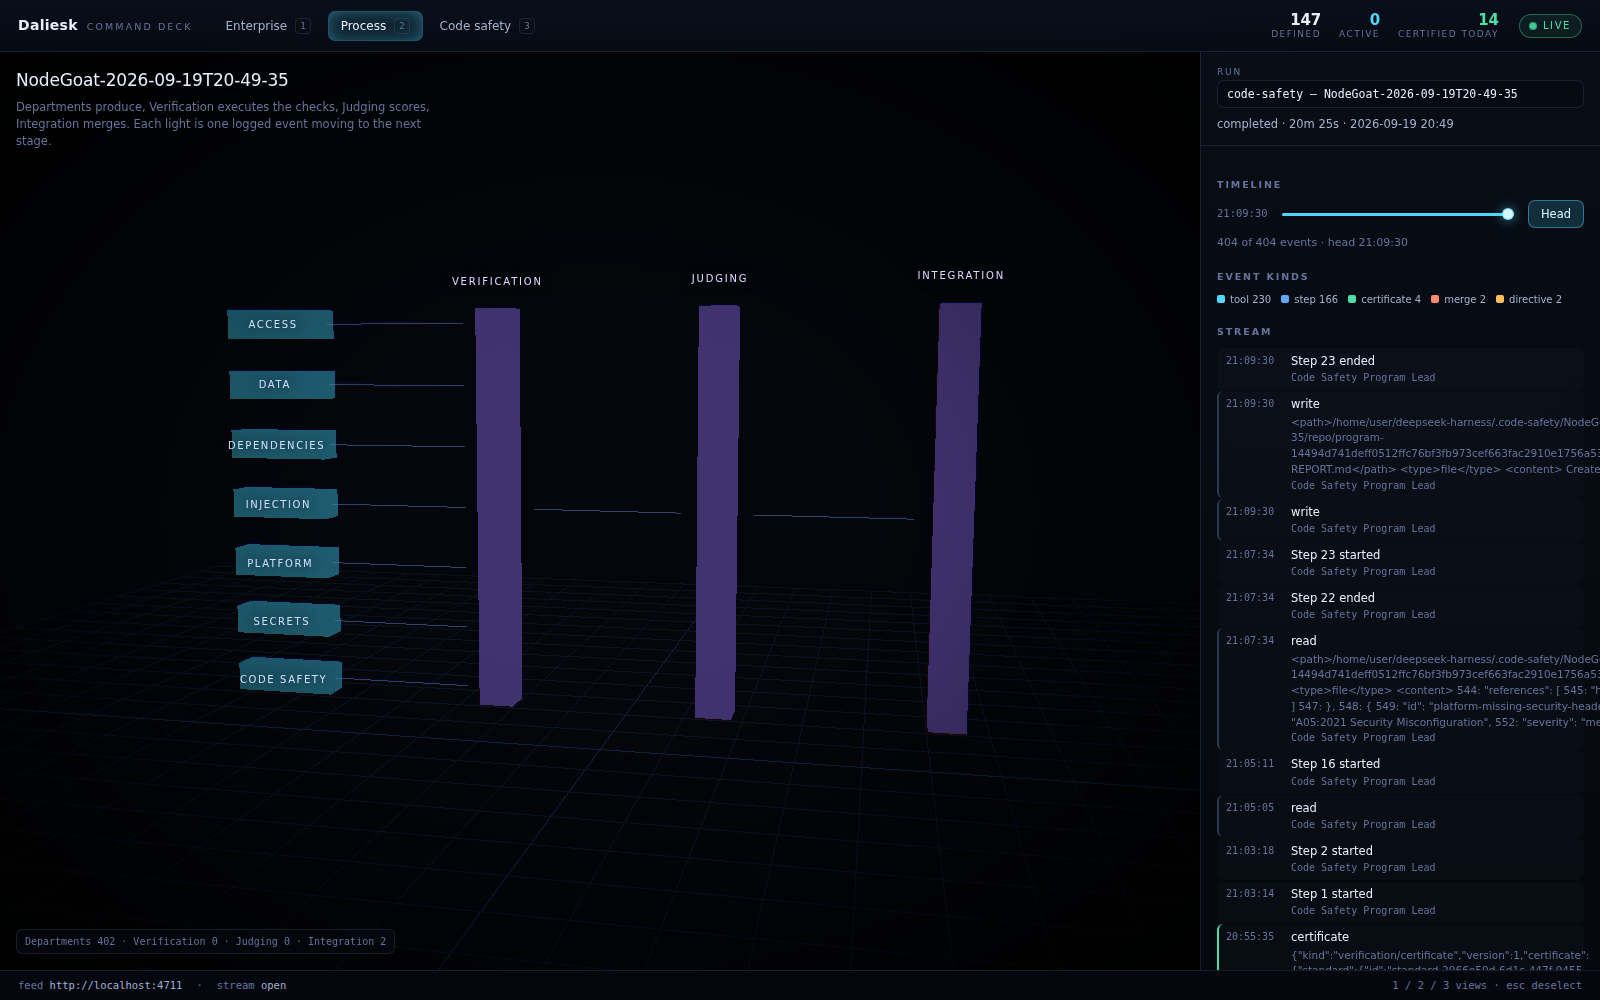
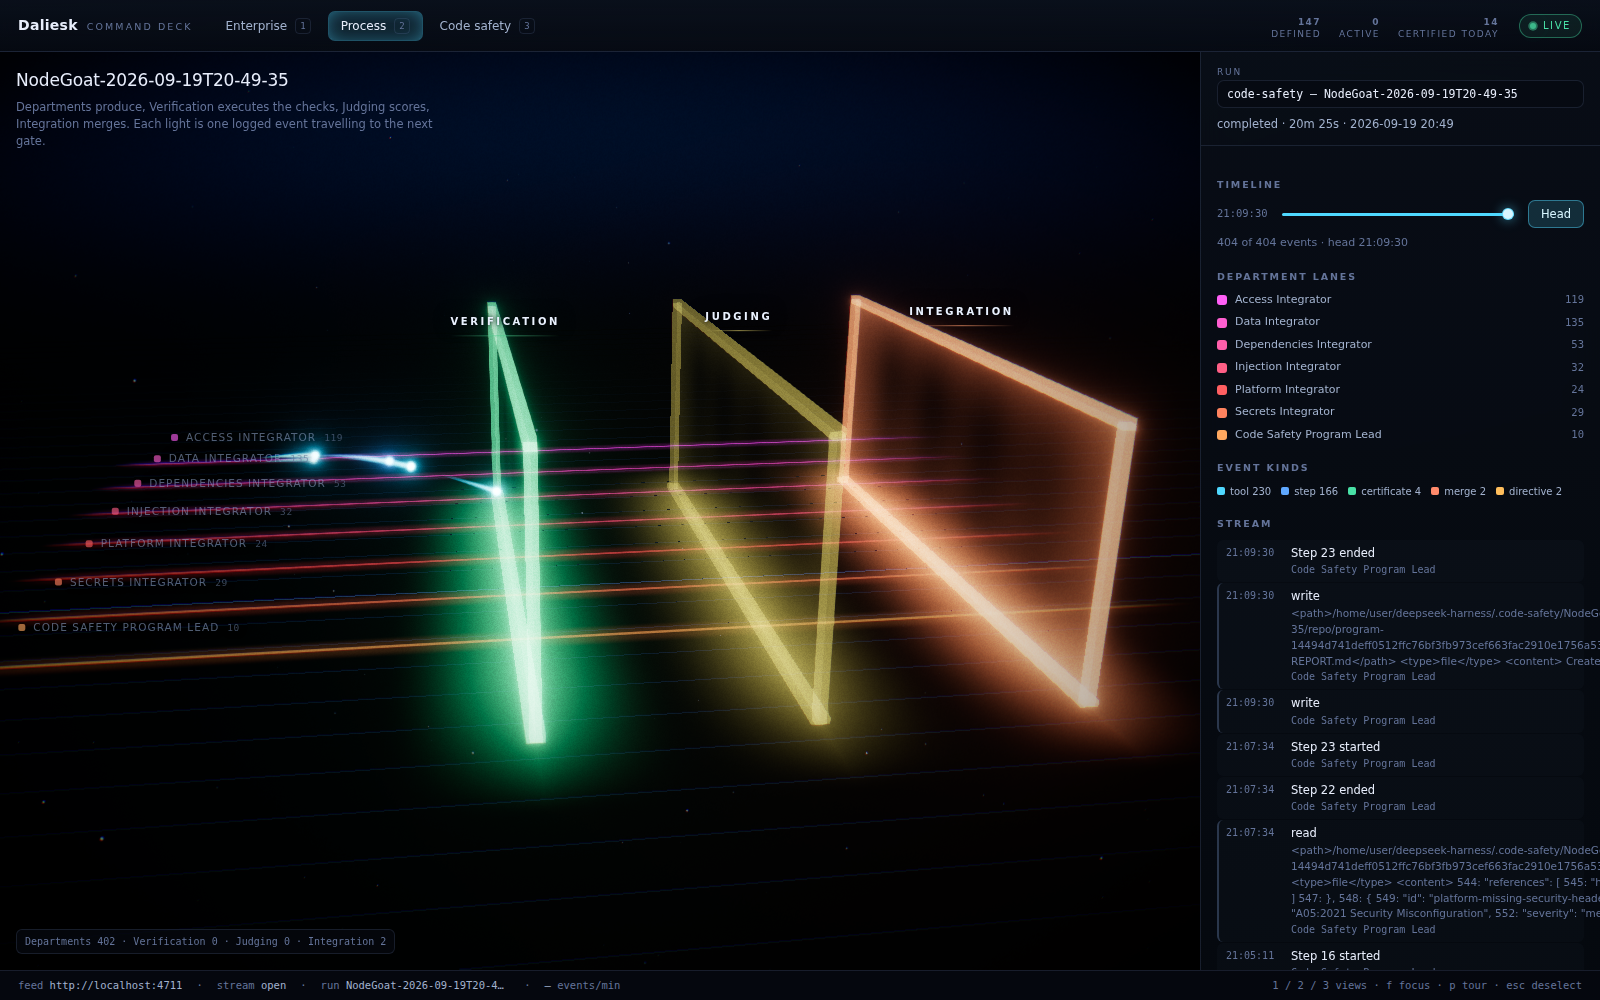
fix(deck): word confidence in the contract, one Esc, one easing curve
Finding.confidence is the review's own word (confirmed, likely, possible)
and a finding carries its references, as the feed and the fixtures already
send them; the card renders the word. The shell's one keyboard handler
clears the selected finding as well as the selected agent on Esc, and the
code city no longer listens for keys itself. The three stages and the
rolling counters share deck/easing.ts; the unused camera helper goes and
the types nothing imports stay module-local, so knip passes. The launcher
runs the deck's own build and start scripts (next reads PORT) instead of a
binary only the deck depends on. Panel copy says beacon where the stage
stands one. README, Agent Note and the three screenshots follow the four
integrated stages.

Claude-Session: https://claude.ai/code/session_01HEXjzxR7CyMizem5kFAB4C

diff --git a/apps/command-deck/components/shell/usePresentation.ts b/apps/command-deck/components/shell/usePresentation.ts
@@ -14,8 +14,9 @@ const TYPING = ['INPUT', 'TEXTAREA', 'SELECT']
 /**
  * The deck's global keyboard, and the timer that drives the tour.
  *
- * `1`, `2` and `3` select a view and `Esc` clears the selection, as before;
- * `F` toggles the full-bleed stage and `P` the tour. Every other key, and any
+ * `1`, `2` and `3` select a view and `Esc` clears the selected agent and the
+ * selected finding, so each stage flies back on the one key whichever view is
+ * up; `F` toggles the full-bleed stage and `P` the tour. Every other key, and any
  * press anywhere on the page, ends a running tour — a tour is what the deck
  * does while nobody is driving, so the first sign of a driver stops it.
  *
@@ -29,6 +30,7 @@ export function usePresentation(): void {
   const setPresentation = useDeck(state => state.setPresentation)
   const togglePresentation = useDeck(state => state.togglePresentation)
   const selectAgent = useDeck(state => state.selectAgent)
+  const selectFinding = useDeck(state => state.selectFinding)
 
   const here = useRef(pathname)
   here.current = pathname
@@ -58,6 +60,7 @@ export function usePresentation(): void {
       leaveTour()
       if (event.key === 'Escape') {
         selectAgent(undefined)
+        selectFinding(undefined)
         return
       }
       const view = VIEWS.find(entry => entry.key === event.key)
@@ -70,7 +73,7 @@ export function usePresentation(): void {
       window.removeEventListener('keydown', onKey)
       window.removeEventListener('pointerdown', leaveTour)
     }
-  }, [router, selectAgent, setPresentation, togglePresentation])
+  }, [router, selectAgent, selectFinding, setPresentation, togglePresentation])
 
   useEffect(() => {
     if (presentation !== 'tour') return

diff --git a/scripts/poc-demo.ts b/scripts/poc-demo.ts
@@ -110,7 +110,7 @@ if (isMain) {
 
   if (options.build || !existsSync(join(deckDir, '.next', 'BUILD_ID'))) {
     console.log(`poc-demo: building the deck against ${feedUrl}`)
-    const code = await run('pnpm', ['--dir', deckDir, 'exec', 'next', 'build'], { NEXT_PUBLIC_FEED_URL: feedUrl })
+    const code = await run('pnpm', ['--dir', deckDir, 'run', 'build'], { NEXT_PUBLIC_FEED_URL: feedUrl })
     if (code !== 0) {
       console.error(`poc-demo: the deck build exited with ${code}`)
       process.exit(code)
@@ -120,6 +120,9 @@ if (isMain) {
   // Each child leads its own process group: the feed and the deck are started
   // through pnpm wrappers, and signalling the group is what reaches the server
   // process behind the wrapper. Ctrl-C therefore arrives here and is forwarded.
+  // The deck's own `build` and `start` scripts are run rather than the `next`
+  // binary, which only the deck workspace depends on; `next start` reads its
+  // port from `PORT`.
   const children: ChildProcess[] = []
   const stopAll = (signal: NodeJS.Signals = 'SIGTERM'): void => {
     for (const child of children) {
@@ -146,7 +149,11 @@ if (isMain) {
   await waitForFeed(feedUrl, FEED_READY_MS)
 
   console.log(`poc-demo: serving the deck on http://localhost:${options.deckPort} (LIVE against ${feedUrl})`)
-  const deck = spawn('pnpm', ['--dir', deckDir, 'exec', 'next', 'start', '-p', String(options.deckPort)], { stdio: 'inherit', detached: true })
+  const deck = spawn('pnpm', ['--dir', deckDir, 'run', 'start'], {
+    env: { ...process.env, PORT: String(options.deckPort) },
+    stdio: 'inherit',
+    detached: true,
+  })
   children.push(deck)
   deck.on('exit', onChildExit('the deck'))
 }

diff --git a/apps/command-deck/components/safety/SafetyStage.tsx b/apps/command-deck/components/safety/SafetyStage.tsx
@@ -23,6 +23,7 @@ import {
   type Mesh,
 } from 'three'
 import type { Finding, SafetyDepartment, SafetyTarget } from '@/deck/contract'
+import { easeInOutCubic } from '@/deck/easing'
 import { layoutCity, type CityBlock, type CityLayout } from '@/deck/layout-city'
 import { usePrefersReducedMotion } from '@/deck/motion'
 import { languageColor, SEVERITY_COLOR } from '@/deck/palette'
@@ -150,15 +151,6 @@ function focusView(entry: PlacedFinding): { position: Vector3; target: Vector3 }
     position: target.clone().add(new Vector3(0.58, 0.55, 1.05).normalize().multiplyScalar(distance)),
     target,
   }
-}
-
-/**
- * Cubic ease-in-out, so a flight leaves and arrives at rest.
- * @param t - Progress in `[0, 1]`.
- * @returns The eased progress.
- */
-function easeInOutCubic(t: number): number {
-  return t < 0.5 ? 4 * t * t * t : 1 - ((((-2 * t) + 2) ** 3) / 2)
 }
 
 const SCRATCH = new Matrix4()
@@ -1021,17 +1013,6 @@ export function SafetyStage({
     () => placed.find(entry => entry.finding.id === selectedFindingId),
     [placed, selectedFindingId],
   )
-
-  useEffect(() => {
-    if (selectedFindingId === undefined) return
-    const onKey = (event: KeyboardEvent): void => {
-      const element = event.target
-      if (element instanceof HTMLElement && ['INPUT', 'TEXTAREA', 'SELECT'].includes(element.tagName)) return
-      if (event.key === 'Escape') onSelectFinding(undefined)
-    }
-    window.addEventListener('keydown', onKey)
-    return () => window.removeEventListener('keydown', onKey)
-  }, [selectedFindingId, onSelectFinding])
 
   return (
     <Stage

diff --git a/apps/command-deck/components/safety/FindingCard.tsx b/apps/command-deck/components/safety/FindingCard.tsx
@@ -5,21 +5,7 @@ import type { Finding, SafetyCertificate } from '@/deck/contract'
 import { departmentOf } from '@/deck/departments'
 
 /**
- * A finding's confidence as text.
- *
- * The contract types the field as a number, and the fixtures carry one, but a
- * live feed also reports it as a word the departments wrote — `confirmed`,
- * `likely` — so the card renders whichever arrives rather than calling a
- * number method on a string.
- * @param confidence - The confidence the feed reported.
- * @returns The text to show after the location.
- */
-function confidenceText(confidence: number | string): string {
-  return typeof confidence === 'number' ? confidence.toFixed(2) : confidence
-}
-
-/**
- * The selected finding, over the city, next to the marker it belongs to.
+ * The selected finding, over the city, beside the beacon it belongs to.
  * @param props - The finding and the certificate that did or did not verify it.
  * @returns The floating detail card.
  */
@@ -55,7 +41,7 @@ export function FindingCard({
 
       <h3 className="finding-card__title">{finding.title}</h3>
       <div className="finding-card__where">
-        {finding.file}:{finding.line} · {finding.owasp} · confidence {confidenceText(finding.confidence)}
+        {finding.file}:{finding.line} · {finding.owasp} · confidence {finding.confidence}
       </div>
 
       <pre className="snippet" style={{ borderLeftColor: `var(--${finding.severity})` }}>{finding.snippet}</pre>

diff --git a/apps/command-deck/components/enterprise/CameraRig.tsx b/apps/command-deck/components/enterprise/CameraRig.tsx
@@ -4,6 +4,7 @@ import { OrbitControls } from '@react-three/drei'
 import { useFrame, useThree } from '@react-three/fiber'
 import { useEffect, useLayoutEffect, useMemo, useRef, useState, type ElementRef, type ReactNode } from 'react'
 import { Vector3 } from 'three'
+import { easeInOutCubic } from '@/deck/easing'
 import type { GraphLayout } from '@/deck/layout-enterprise'
 import { usePrefersReducedMotion } from '@/deck/motion'
 import { useDeck } from '@/deck/store'
@@ -32,15 +33,6 @@ interface Flight {
   to: Shot
   started: number
   duration: number
-}
-
-/**
- * Cubic ease-in-out.
- * @param t - Progress in `[0, 1]`.
- * @returns The eased progress, starting and ending at rest.
- */
-function cubicInOut(t: number): number {
-  return t < 0.5 ? 4 * t * t * t : 1 - ((((-2 * t) + 2) ** 3) / 2)
 }
 
 /**
@@ -156,7 +148,7 @@ export function CameraRig({ layout }: { layout: GraphLayout }): ReactNode {
     const move = flight.current
     if (move !== undefined) {
       const progress = Math.min(1, (performance.now() - move.started) / move.duration)
-      const eased = cubicInOut(progress)
+      const eased = easeInOutCubic(progress)
       camera.position.lerpVectors(move.from.position, move.to.position, eased)
       control.target.lerpVectors(move.from.target, move.to.target, eased)
       if (progress >= 1) {

diff --git a/apps/command-deck/components/process/Director.tsx b/apps/command-deck/components/process/Director.tsx
@@ -4,6 +4,7 @@ import { OrbitControls } from '@react-three/drei'
 import { useFrame, useThree } from '@react-three/fiber'
 import { useEffect, useMemo, useRef, type ElementRef, type ReactNode } from 'react'
 import { Vector3 } from 'three'
+import { easeInOutCubic } from '@/deck/easing'
 import { usePrefersReducedMotion } from '@/deck/motion'
 import { PIPELINE } from '@/deck/pipeline'
 
@@ -48,15 +49,6 @@ const HANDOVER_MS = 12_000
 
 /** The reusable goal the director eases towards; nothing is allocated per frame. */
 const GOAL: Pose = { position: new Vector3(), target: new Vector3() }
-
-/**
- * Cubic ease in and out.
- * @param t - Progress, in `0..1`.
- * @returns The eased progress.
- */
-function cubic(t: number): number {
-  return t < 0.5 ? 4 * t * t * t : 1 - (((-2 * t) + 2) ** 3 / 2)
-}
 
 /**
  * The camera over the pipeline.
@@ -117,7 +109,7 @@ export function Director({
     if (opened.current === 0) opened.current = now
     const opening = (now - opened.current) / ESTABLISH_MS
     if (opening < 1) {
-      const eased = cubic(Math.max(0, opening))
+      const eased = easeInOutCubic(Math.max(0, opening))
       camera.position.lerpVectors(ESTABLISH.position, WORKING.position, eased)
       control.target.lerpVectors(ESTABLISH.target, WORKING.target, eased)
       control.update()

diff --git a/apps/command-deck/deck/contract.ts b/apps/command-deck/deck/contract.ts
@@ -19,6 +19,13 @@ export type EventKind
 /** Severity ladder shared by findings, events, and the certificate counts. */
 export type Severity = 'critical' | 'high' | 'medium' | 'low' | 'info'
 
+/**
+ * How far the department traced a finding: `confirmed` read the source, the
+ * sink and the path between them, `likely` a dangerous sink with a plausible
+ * source, `possible` the pattern without established reachability.
+ */
+export type Confidence = 'confirmed' | 'likely' | 'possible'
+
 /** Run categories the deck can subscribe to. */
 export type RunKind = 'program' | 'fleet' | 'experiment' | 'code-safety'
 
@@ -121,7 +128,7 @@ export interface Finding {
   cwe: string
   owasp: string
   severity: Severity
-  confidence: number
+  confidence: Confidence
   title: string
   file: string
   line: number
@@ -129,6 +136,8 @@ export interface Finding {
   evidence: string
   impact: string
   fix: string
+  /** Sources the department cited, as the review wrote them. */
+  references?: string[]
 }
 
 /** The verifier's certificate over a completed review. */

diff --git a/apps/command-deck/components/safety/SafetyView.tsx b/apps/command-deck/components/safety/SafetyView.tsx
@@ -132,7 +132,7 @@ export function SafetyView(): ReactNode {
             <h1>{safety?.target.name ?? 'Code safety'}</h1>
             <p>
               Directories are districts, files are blocks scaled by size and coloured by language.
-              Every marker is a finding standing on the line of code that carries it.
+              Every beacon is a finding standing on the file that carries it; its height and colour are its severity.
             </p>
             <div className="legend" style={{ marginTop: 11 }}>
               {SEVERITY_ORDER.map(level => (
@@ -143,7 +143,7 @@ export function SafetyView(): ReactNode {
               ))}
             </div>
           </div>
-          <span className="hint">drag to orbit · click a marker or a block</span>
+          <span className="hint">drag to orbit · click a beacon or a building · esc flies back</span>
         </div>
 
         {selected === undefined ? null : (

diff --git a/apps/command-deck/deck/pipeline.ts b/apps/command-deck/deck/pipeline.ts
@@ -82,14 +82,14 @@ export function stageOf(event: RunEvent, agent: Agent | undefined): number {
  * @param agent - The acting agent, when the roster knows it.
  * @returns The lane key: a department where the agent has one, else its division.
  */
-export function laneOf(event: RunEvent, agent: Agent | undefined): string {
+function laneOf(event: RunEvent, agent: Agent | undefined): string {
   if (agent?.department !== undefined) return agent.department
   if (agent !== undefined) return agent.division
   return event.agentId.split('/')[0] ?? 'unknown'
 }
 
 /** One department lane of the first stage. */
-export interface Lane {
+interface Lane {
   key: string
   /** Roster name of the agent that emitted most of the lane's events. */
   label: string

diff --git a/apps/command-deck/deck/easing.ts b/apps/command-deck/deck/easing.ts
@@ -1,0 +1,17 @@
+/**
+ * The deck's one easing curve.
+ *
+ * Every camera flight and every counter tween in the deck eases through the
+ * same cubic, so the enterprise fly-to, the process director's opening move,
+ * the code city's fly-over and a rolling number all start and settle without a
+ * visible cut at either end.
+ */
+
+/**
+ * Cubic ease in and out over the unit interval.
+ * @param t - Progress, clamped by the caller to `0..1`.
+ * @returns The eased progress, at zero velocity at both ends.
+ */
+export function easeInOutCubic(t: number): number {
+  return t < 0.5 ? 4 * t * t * t : 1 - ((-2 * t + 2) ** 3) / 2
+}

diff --git a/apps/command-deck/components/three/glow.ts b/apps/command-deck/components/three/glow.ts
@@ -5,7 +5,7 @@ import { AdditiveBlending, ShaderMaterial } from 'three'
  *
  * Points, not billboarded quads: a point sprite always faces the camera and
  * the whole layer is one draw call, which is what keeps 147 pulsing agents and
- * a hundred finding markers inside the frame budget. Size and brightness are
+ * a hundred beacon heads inside the frame budget. Size and brightness are
  * per-point attributes, so a scene animates a typed array rather than a scene
  * graph.
  * @returns A new additive point material; each layer owns its own instance.

diff --git a/apps/command-deck/deck/layout-enterprise.ts b/apps/command-deck/deck/layout-enterprise.ts
@@ -12,7 +12,7 @@
 import type { Roster } from './contract.ts'
 
 /** One node's resolved position and its cluster. */
-export interface GraphNode {
+interface GraphNode {
   id: string
   x: number
   y: number
@@ -21,7 +21,7 @@ export interface GraphNode {
 }
 
 /** A division's cluster: the members' centroid, the label anchor pushed clear of it, and its size. */
-export interface GraphCluster {
+interface GraphCluster {
   id: string
   name: string
   /** Label anchor, pushed radially outside the member cloud. */
